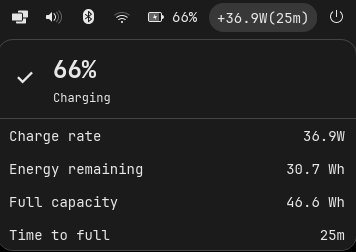
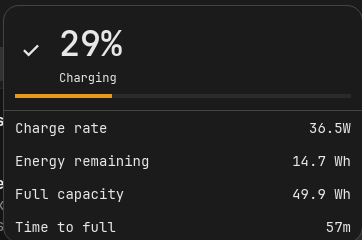
v0.1.6: smooth power animation, battery bar popup, new screenshots

diff --git a/src/app.rs b/src/app.rs
@@ -1,20 +1,23 @@
 use cosmic::app::Core;
+use cosmic::iced::core::animation::{Animation, Easing};
+use cosmic::iced::mouse;
 use cosmic::iced::platform_specific::shell::commands::popup::{destroy_popup, get_popup};
 use cosmic::iced::window::Id;
-use cosmic::iced::{Limits, Subscription};
-use cosmic::widget::{button, column, container, divider, icon, row, text};
-use cosmic::{Action, Element, Task};
-use std::time::Duration;
+use cosmic::iced::{Length, Limits, Subscription};
+use cosmic::widget::{button, canvas, column, container, divider, icon, row, text};
+use cosmic::{Action, Element, Task, Theme};
+use cosmic::iced::Color;
+use std::time::{Duration, Instant};
 
 use crate::battery;
 
 const ID: &str = "io.github.AceMythos.cosmic-ext-applet-power-monitor";
 
-#[derive(Default)]
 pub struct PowerMonitor {
     core: Core,
     popup: Option<Id>,
     watts: f64,
+    display_watts: Animation<f32>,
     percentage: f64,
     status: String,
     time_to_empty: i64,
@@ -22,6 +25,26 @@ pub struct PowerMonitor {
     energy: f64,
     energy_full: f64,
     no_battery: bool,
+}
+
+impl Default for PowerMonitor {
+    fn default() -> Self {
+        Self {
+            core: Core::default(),
+            popup: None,
+            watts: 0.0,
+            display_watts: Animation::new(0.0)
+                .duration(Duration::from_millis(200))
+                .easing(Easing::EaseOutCubic),
+            percentage: 0.0,
+            status: String::new(),
+            time_to_empty: 0,
+            time_to_full: 0,
+            energy: 0.0,
+            energy_full: 0.0,
+            no_battery: false,
+        }
+    }
 }
 
 #[derive(Clone, Debug)]
@@ -45,8 +68,8 @@ impl PowerMonitor {
         }
     }
 
-    fn watts_display(&self) -> String {
-        if self.no_battery || self.watts <= 0.0 {
+    fn format_power_string(&self, watts: f64) -> String {
+        if self.no_battery || watts <= 0.0 {
             return String::new();
         }
         let sign = if self.status == "Charging" { "+" } else { "-" };
@@ -55,7 +78,7 @@ impl PowerMonitor {
             "Discharging" if self.time_to_empty > 0 => format!("({})", Self::format_time(self.time_to_empty)),
             _ => String::new(),
         };
-        format!("{}{}{}", sign, Self::format_watts(self.watts), time)
+        format!("{}{}{}", sign, Self::format_watts(watts), time)
     }
 
     fn format_time(seconds: i64) -> String {
@@ -71,6 +94,54 @@ impl PowerMonitor {
         } else {
             format!("{}s", seconds)
         }
+    }
+}
+
+struct BatteryBar {
+    percentage: f32,
+}
+
+impl canvas::Program<Message, cosmic::Theme> for BatteryBar {
+    type State = ();
+
+    fn draw(
+        &self,
+        _state: &(),
+        renderer: &cosmic::iced::Renderer,
+        _theme: &Theme,
+        bounds: cosmic::iced::Rectangle,
+        _cursor: mouse::Cursor,
+    ) -> Vec<canvas::Geometry> {
+        let mut frame = canvas::Frame::new(renderer, bounds.size());
+
+        let width = bounds.width;
+        let height = bounds.height;
+        let fill_width = width * self.percentage;
+
+        let track_color = Color::from_rgba(0.5, 0.5, 0.5, 0.15);
+        frame.fill_rectangle(
+            cosmic::iced::Point::new(0.0, 0.0),
+            cosmic::iced::Size::new(width, height),
+            track_color,
+        );
+
+        let fill_color = if self.percentage > 0.6 {
+            Color::from_rgb(0.3, 0.8, 0.3)
+        } else if self.percentage > 0.2 {
+            Color::from_rgb(0.9, 0.6, 0.1)
+        } else {
+            Color::from_rgb(0.8, 0.2, 0.2)
+        };
+
+        if fill_width > 0.0 {
+            frame.fill_rectangle(
+                cosmic::iced::Point::new(0.0, 0.0),
+                cosmic::iced::Size::new(fill_width, height),
+                fill_color,
+            );
+        }
+
+        vec![frame.into_geometry()]
     }
 }
 
@@ -140,6 +211,7 @@ impl cosmic::Application for PowerMonitor {
             }
             Message::Update(data) => {
                 self.watts = data.energy_rate;
+                self.display_watts.go_mut(data.energy_rate as f32, Instant::now());
                 self.percentage = data.percentage;
                 self.status = data.status;
                 self.time_to_empty = data.time_to_empty;
@@ -159,7 +231,8 @@ impl cosmic::Application for PowerMonitor {
     }
 
     fn view(&self) -> Element<'_, Self::Message> {
-        let content = text::body(self.watts_display());
+        let animated = self.display_watts.interpolate_with(|v| v, Instant::now()) as f64;
+        let content = text::body(self.format_power_string(animated));
 
         let btn = button::custom(content)
             .on_press_down(Message::TogglePopup)
@@ -190,15 +263,27 @@ impl cosmic::Application for PowerMonitor {
                 row![
                     icon::from_name(status_icon).size(32),
                     column![
-                        text::title3(format!("{:.0}%", self.percentage)),
+                        text::title1(format!("{:.0}%", self.percentage)),
                         text::caption(&self.status),
                     ]
-                    .spacing(2),
+                    .spacing(0),
                 ]
                 .spacing(12)
                 .align_y(cosmic::iced::core::Alignment::Center),
             )
-            .padding(12)
+            .padding([12, 12, 4, 12])
+            .into(),
+        );
+
+        content.push(
+            container(
+                canvas::Canvas::<BatteryBar, Message, Theme>::new(BatteryBar {
+                    percentage: (self.percentage / 100.0) as f32,
+                })
+                .width(Length::Fill)
+                .height(Length::Fixed(4.0)),
+            )
+            .padding([4, 12, 12, 12])
             .into(),
         );
 